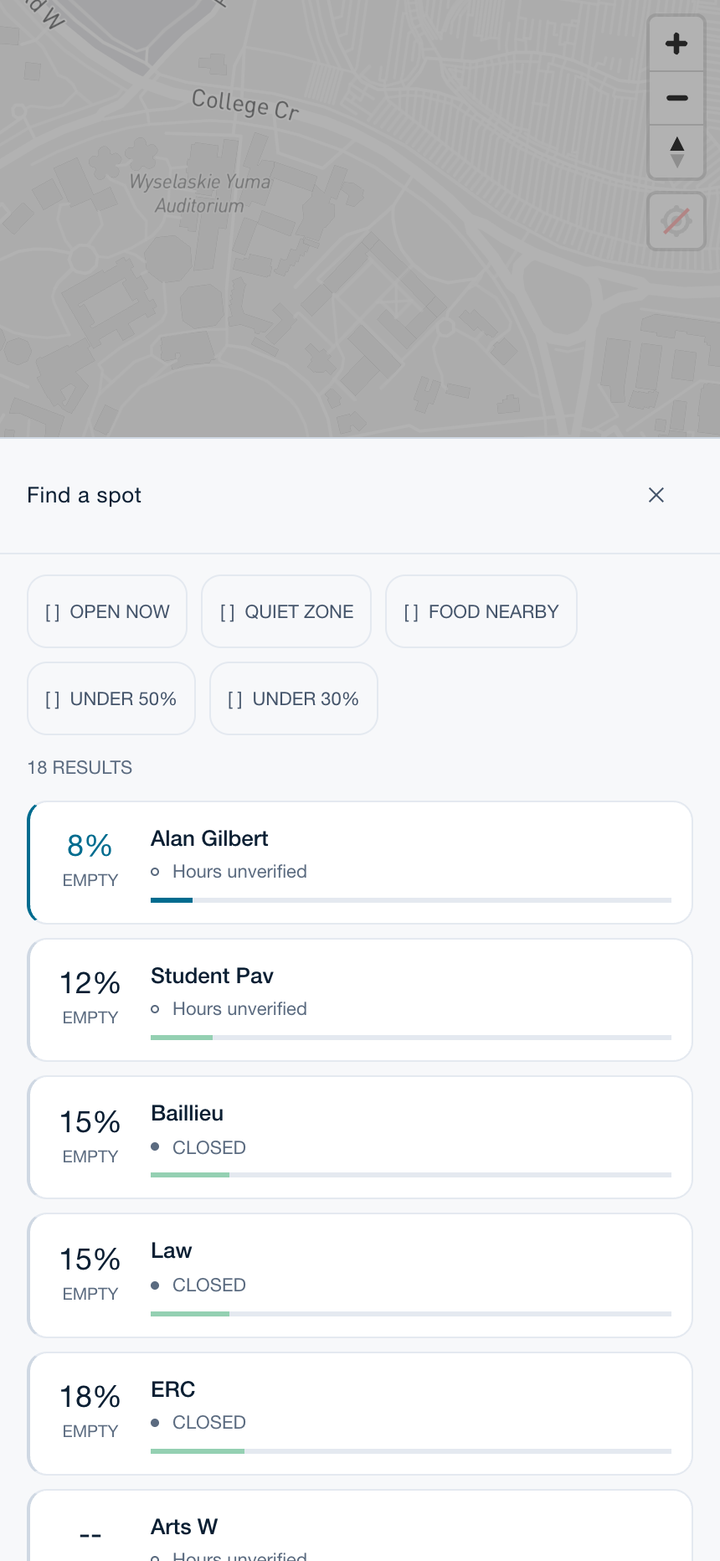
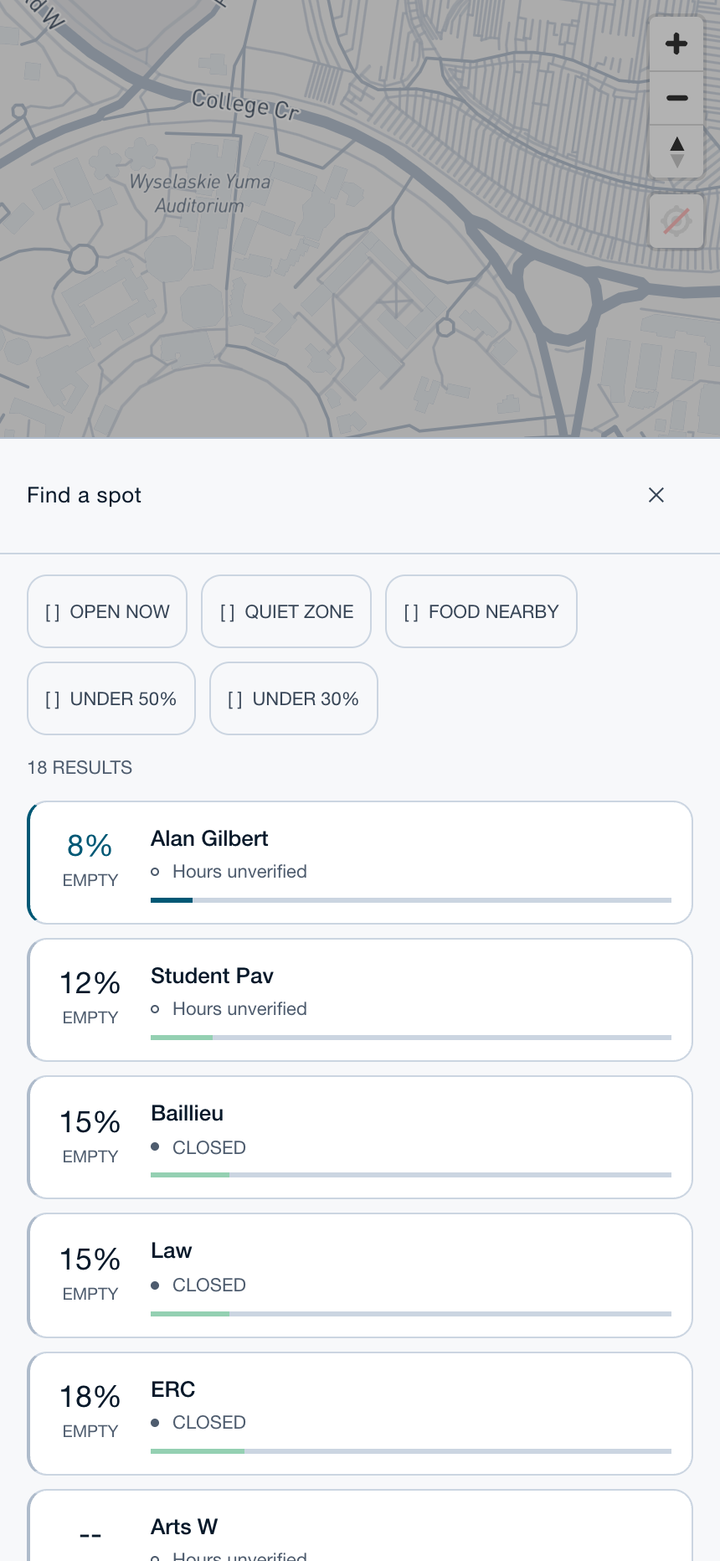
docs(D): re-shoot at b399fd8, record the map and dialog lessons
Media re-captured after the contrast raise. The map is the reason this
round mattered: light-v11 draws roads near-white on a near-white ground
because it is built to sit under a visualisation, so the street network
was invisible and the campus read as a wash. It reads as a city now.

Re-counted, not carried forward: 388 tests across 33 files (was 380/32 —
the dialog invariant added 8). Landing route 169.5 KB, still 169.

Two additions, both strengthening sections that already existed:

- Verification gains dialogDismissal.test.ts as a fifth property test,
  with the reason it belongs there: two role=dialog sheets were
  dismissible only by pointer and cover the tab bar, so a keyboard user
  who opened a building card was trapped (WCAG 2.1.2). A test pressing
  Escape already existed and passed on the bug, because it never
  asserted the sheet had gone. An invariant over every dialog in the
  tree found a third.
- How it was built gains the map layer-id miss: matching road-motorway
  and road-primary against a style that collapses roads into one
  road-simple layer matched footpaths and no streets, and shipped
  looking slightly better while being entirely wrong.

Third bug of that shape now. The stylesheet cannot be verified by
reading it, only by measuring what a browser computes.

diff --git a/README.md b/README.md
@@ -13,12 +13,12 @@ UniSpace shows how full every building on a university campus is, so students st
 | | |
 |---|---|
 | **Landing route** | **169 KB gzip**, down from 637 KB — Mapbox's 439 KB stays off it entirely |
-| **Tests** | **380** across 32 files, including four that assert properties most projects only write down |
+| **Tests** | **388** across 33 files, including five that assert properties most projects only write down |
 | **Campus data** | **18** buildings · **47** zones · **890** rooms · **1,156** modelled occupancy rows |
 | **Coordinates sent to a server** | **None.** Zone matching runs on the device; a test fails the build if that changes |
 
 [![CI](https://github.com/br9704/UniSpace/actions/workflows/ci.yml/badge.svg)](https://github.com/br9704/UniSpace/actions/workflows/ci.yml)
-![tests](https://img.shields.io/badge/tests-380%20passing-2ea043)
+![tests](https://img.shields.io/badge/tests-388%20passing-2ea043)
 ![license](https://img.shields.io/badge/license-all%20rights%20reserved-8b949e)
 [![live](https://img.shields.io/badge/live-unispace--tawny.vercel.app-003366)](https://unispace-tawny.vercel.app)
 
@@ -149,7 +149,7 @@ That is a smaller gap than it sounds, because the backend was never the hand-wav
 | 22 SQL migrations, applied in order, RLS on every table | — |
 | 8 seed files: 18 buildings, 47 zones, 890 rooms, 1,156 occupancy rows | — |
 | 7 Deno Edge Functions — aggregation, predictions, reports, alerts, feedback, hours sync | — |
-| The React client and the 380-test suite that covers it | deployed |
+| The React client and the 388-test suite that covers it | deployed |
 
 The honest consequence, stated once: **the live-crowdsourced path has never run against real
 users.** Its code is written and unit-tested, and the app is built to fall through to estimates
@@ -215,6 +215,15 @@ and, worse, that the columns could only say yes or no, so the true answer for mo
 inline. The same rule was then applied to opening hours. That is the third screenshot above: a
 building the app knows things about, being explicit about the things it does not.
 
+A related lesson, from the map. Building footprints were invisible against Mapbox's `light-v11`,
+which draws roads near-white on a near-white ground because it is designed to sit *under* a
+visualisation. The first fix matched layer ids like `road-motorway` and `road-primary` — the names
+the full Streets style uses. `light-v11` collapses the entire road network into one `road-simple`
+layer, so that pattern matched footpaths and steps and not a single street. It shipped looking
+slightly better and was entirely wrong. Reading the ids out of the loaded style in a browser fixed
+it in one attempt. Three separate bugs in this project have now had the same shape: the stylesheet
+cannot be verified by reading it, only by measuring what a browser computes.
+
 The clearest example of why that principle is worth the effort was also the last bug found. The
 first line on the home screen announced **CAMPUS IS BUSY** while average occupancy read 14% and
 every building on the list said EMPTY. The cause was a single fallback: `occupancy?.pct ?? 100`
@@ -232,10 +241,10 @@ reasoning behind every deferral.
 ## Verification
 
 `pnpm build` runs `tsc -b` before `vite build`, because the gap between those two is how three
-fatal defects passed two separate audits. **380 tests across 32 files**, no DOM required —
+fatal defects passed two separate audits. **388 tests across 33 files**, no DOM required —
 component logic is extracted into pure functions and tested there.
 
-Four assert properties rather than behaviour, which is the part worth stealing:
+Five assert properties rather than behaviour, which is the part worth stealing:
 
 | File | Tests | What it makes impossible |
 |---|---|---|
@@ -243,6 +252,15 @@ Four assert properties rather than behaviour, which is the part worth stealing:
 | [`src/lib/contrast.test.ts`](src/lib/contrast.test.ts) | 17 | Any text token dropping below WCAG AA — ratios computed from `index.css`, not inspected |
 | [`src/lib/bundleBudget.test.ts`](src/lib/bundleBudget.test.ts) | 4 | The landing route exceeding budget, or Mapbox or Recharts reappearing on it. Measures the real `dist/` output |
 | [`src/index.css.test.ts`](src/index.css.test.ts) | 14 | A framework config change silently emitting no CSS. Compiles the stylesheet through Vite and asserts against the build output |
+| [`src/lib/dialogDismissal.test.ts`](src/lib/dialogDismissal.test.ts) | 8 | A `role="dialog"` reachable only by pointer. Finds every dialog in the tree and requires each to route through the one shared dismissal hook |
+
+The last one is the clearest argument for writing tests this way. Two sheets were dismissible only
+by backdrop tap or drag, and they cover the tab bar — so a keyboard user who opened a building card
+was trapped behind it (WCAG 2.1.2). There *was* a test that pressed Escape, and it passed on the
+bug, because it never asserted the sheet had actually gone. Replacing it with an invariant over
+every dialog in the tree immediately surfaced a third one nobody had noticed. Asserting the
+property rather than the instance is what turns a test from a record of what someone thought to
+check into a constraint on the whole codebase.
 
 Also enforced: no animation may ignore `prefers-reduced-motion`
 ([`motion.test.ts`](src/lib/motion.test.ts)); an estimate may never render as a live reading
@@ -271,8 +289,8 @@ pnpm dev
 ```
 $ pnpm test
 
- Test Files  32 passed (32)
-      Tests  380 passed (380)
+ Test Files  33 passed (33)
+      Tests  388 passed (388)
 ```
 
 You get all 18 buildings, their floor zones, the room directory and the weekly occupancy curves,
@@ -283,7 +301,7 @@ well.
 |---|---|
 | `pnpm dev` | Dev server on fixtures |
 | `pnpm build` | `tsc -b && vite build` — never `vite build` alone |
-| `pnpm test` | 380 unit and integration tests |
+| `pnpm test` | 388 unit and integration tests |
 | `pnpm lint` | ESLint, zero suppressions in the codebase |
 | `pnpm generate:fixtures` | Regenerate fixtures after editing `supabase/seed/` |
 
